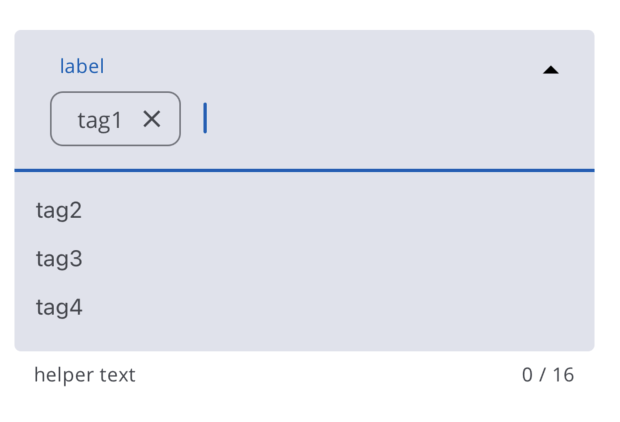
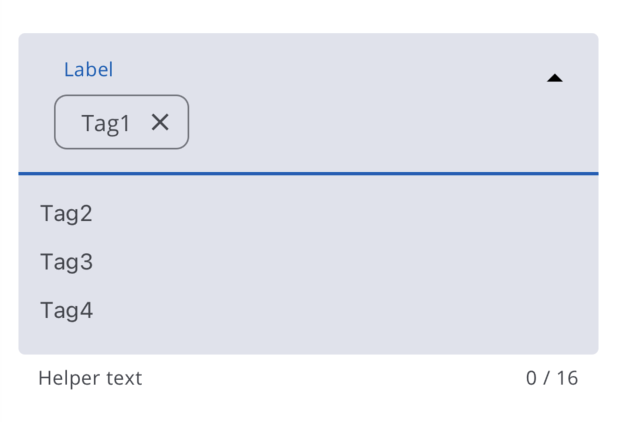
fixed PR comments

diff --git a/components/src/core/AutoComplete/AutoComplete.tsx b/components/src/core/AutoComplete/AutoComplete.tsx
@@ -296,9 +296,7 @@ export const AutoComplete: React.FC<AutocompleteProps> = (props) => {
                                     ref={tagInputRef}
                                     selectionColor={theme.colors.primary}
                                     value={textInput}
-                                    placeholderTextColor={
-                                        hideDropDownTags ? theme.colors.onSurfaceVariant : 'rgba(255, 255, 255, 0)'
-                                    }
+                                    placeholderTextColor={theme.colors.onSurfaceVariant}
                                     placeholder={hideDropDownTags && chipValue.length < 1 ? label : ''}
                                     onChangeText={(e): any => handleOnChangeText(e)}
                                     style={[defaultStyles.tagTextInput, styles?.textInput]}

diff --git a/components/src/core/AutoComplete/Autocomplete.test.tsx b/components/src/core/AutoComplete/Autocomplete.test.tsx
@@ -35,7 +35,7 @@ describe('AutoComplete', () => {
         const helperText = await getByText('This is a helper text');
         expect(helperText).toBeTruthy();
     });
-
+    // @todo
     // it('toggles dropdown menu on input click and selecting an option', async () => {
     //     const { getByTestId } = render(<AutoComplete helperText="Helper Text" options={['Option 1', 'Option 2']} />);
 

diff --git a/docs/AutoComplete.md b/docs/AutoComplete.md
@@ -9,7 +9,7 @@ The Autocomplete is a component that features a standard text input accompanied 
 ```tsx
 import { AutoComplete } from '@brightlayer-ui/react-native-components';
 
-<AutoComplete helperText="helper text" label="label" value={['tag1']} options={['tag1', 'tag2', 'tag3', 'tag4']} />;
+<AutoComplete helperText="helper text" label="label" value={['Tag1']} options={['Tag1', 'Tag2', 'Tag3', 'Tag4']} />;
 ```
 
 #### Note: this component should be wrapped inside scroll view with the following props
